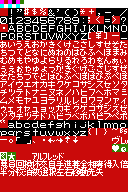
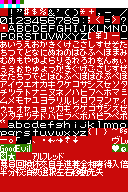
added custom small characters for Good and Evil words

Changed region(s): [[0.0, 0.75, 0.25, 0.8125]]

diff --git a/translation/texts.js b/translation/texts.js
@@ -9,7 +9,7 @@ const KNOWN_POINTERS=[
 
 	/* START GAME */
 	{pointerIndex:5, comment:'Start game - Intro (helper)', translation:'Choose\nhelper'},
-	{pointerIndex:6, comment:'Start game - Intro (skill)', translation:'···and\nskill?'},
+	{pointerIndex:6, comment:'Start game - Intro (skill)', translation:'···and\nside?'},
 	{pointerIndex:7, comment:'Start game - Intro (bottom text)', translation:'USE ←/→'},
 	{pointerIndex:8, comment:'Start game - Intro (bottom text filler)'},
 	{pointerIndex:10, comment:'Start game - Intro (players)', translation:'Player\nnumber'},
@@ -92,8 +92,8 @@ const KNOWN_POINTERS=[
 	{pointerIndex:76, comment:'Start game - Striker names', translation:'FIO'},
 	{pointerIndex:77, comment:'Start game - Striker names', translation:'GAI'},
 	{pointerIndex:78, comment:'Start game - Striker names', translation:'SYO'},
-	{pointerIndex:79, comment:'Start game - Good side', translation:'ゔ[0b]GS'},
-	{pointerIndex:80, comment:'Start game - Evil side', translation:'ゔ[0b]ES'},
+	{pointerIndex:79, comment:'Start game - Good side', translation:'ゔ[0b]×±'}, //×±=Good
+	{pointerIndex:80, comment:'Start game - Evil side', translation:'ゔ[0b]…○'}, //…○=Evil
 
 
 	/* MINIGAME - COMMON */
@@ -166,8 +166,8 @@ const KNOWN_POINTERS=[
 	{pointerIndex:151, comment:'User screen - Level up - Cost for Lv2', translation:'ゔ2 UPGRADE COST=2'},
 	{pointerIndex:152, comment:'User screen - Level up - Cost for Lv3', translation:'ゔ3 UPGRADE COST=5'},
 	{pointerIndex:153, comment:'User screen - Level up - Ask?', translation:'Upgrade to next ゔ?'},
-	{pointerIndex:154, comment:'User screen - Level up - LvX Good side', translation:'ゔ[0b] GS'},
-	{pointerIndex:155, comment:'User screen - Level up - LvX Evil side', translation:'ゔ[0b] ES'},
+	{pointerIndex:154, comment:'User screen - Level up - LvX Good side', translation:'ゔ[0b] ×±'}, //×±=Good
+	{pointerIndex:155, comment:'User screen - Level up - LvX Evil side', translation:'ゔ[0b] …○'}, //…○=Evil
 
 
 
@@ -339,14 +339,17 @@ const KNOWN_POINTERS=[
 
 	/* USER SCREEN - LEVEL UP - NAMES */
 	{pointerIndex:1806, comment:'User screen - Level up - Striker names', translation:'ALFRED'},
-	/* EVENT SQUARE: Striker names */
-	/*
-		these appear when a striker changes side
-	*/
-	{pointerIndex:1820, comment:'Event Square Results - Striker names', translation:'Striker GORO'},
-	{pointerIndex:1821, comment:'Event Square Results - Striker names', translation:'Striker BILLY'},
-	{pointerIndex:1822, comment:'Event Square Results - Striker names', translation:'Striker RYUJI'},
-	{pointerIndex:1823, comment:'Event Square Results - Striker names', translation:'Striker KYO'},
+	/* EVENT SQUARE: Striker names (these appear when a striker changes side) */
+	{pointerIndex:1820, comment:'Event Square Results - Striker names', translation:'GORO'},
+	{pointerIndex:1821, comment:'Event Square Results - Striker names', translation:'BILLY'},
+	{pointerIndex:1822, comment:'Event Square Results - Striker names', translation:'RYUJI'},
+	{pointerIndex:1823, comment:'Event Square Results - Striker names', translation:'KYO'},
+	{pointerIndex:1824, comment:'Event Square Results - Striker names', translation:'CHIZURU'},
+	{pointerIndex:1825, comment:'Event Square Results - Striker names', translation:'ATHENA'},
+	{pointerIndex:1826, comment:'Event Square Results - Striker names', translation:'ALFRED'},
+	{pointerIndex:1827, comment:'Event Square Results - Striker names', translation:'FIO'},
+	{pointerIndex:1828, comment:'Event Square Results - Striker names', translation:'GAI'},
+	{pointerIndex:1829, comment:'Event Square Results - Striker names', translation:'SYO'},
 
 	/* EVENT SQUARE: Shopping dialogues */
 	{pointerIndex:1831, comment:'Event square shopping - Player not enough coins', translation:'[08] has no\nenough\n[coin]coins![0f]'},
